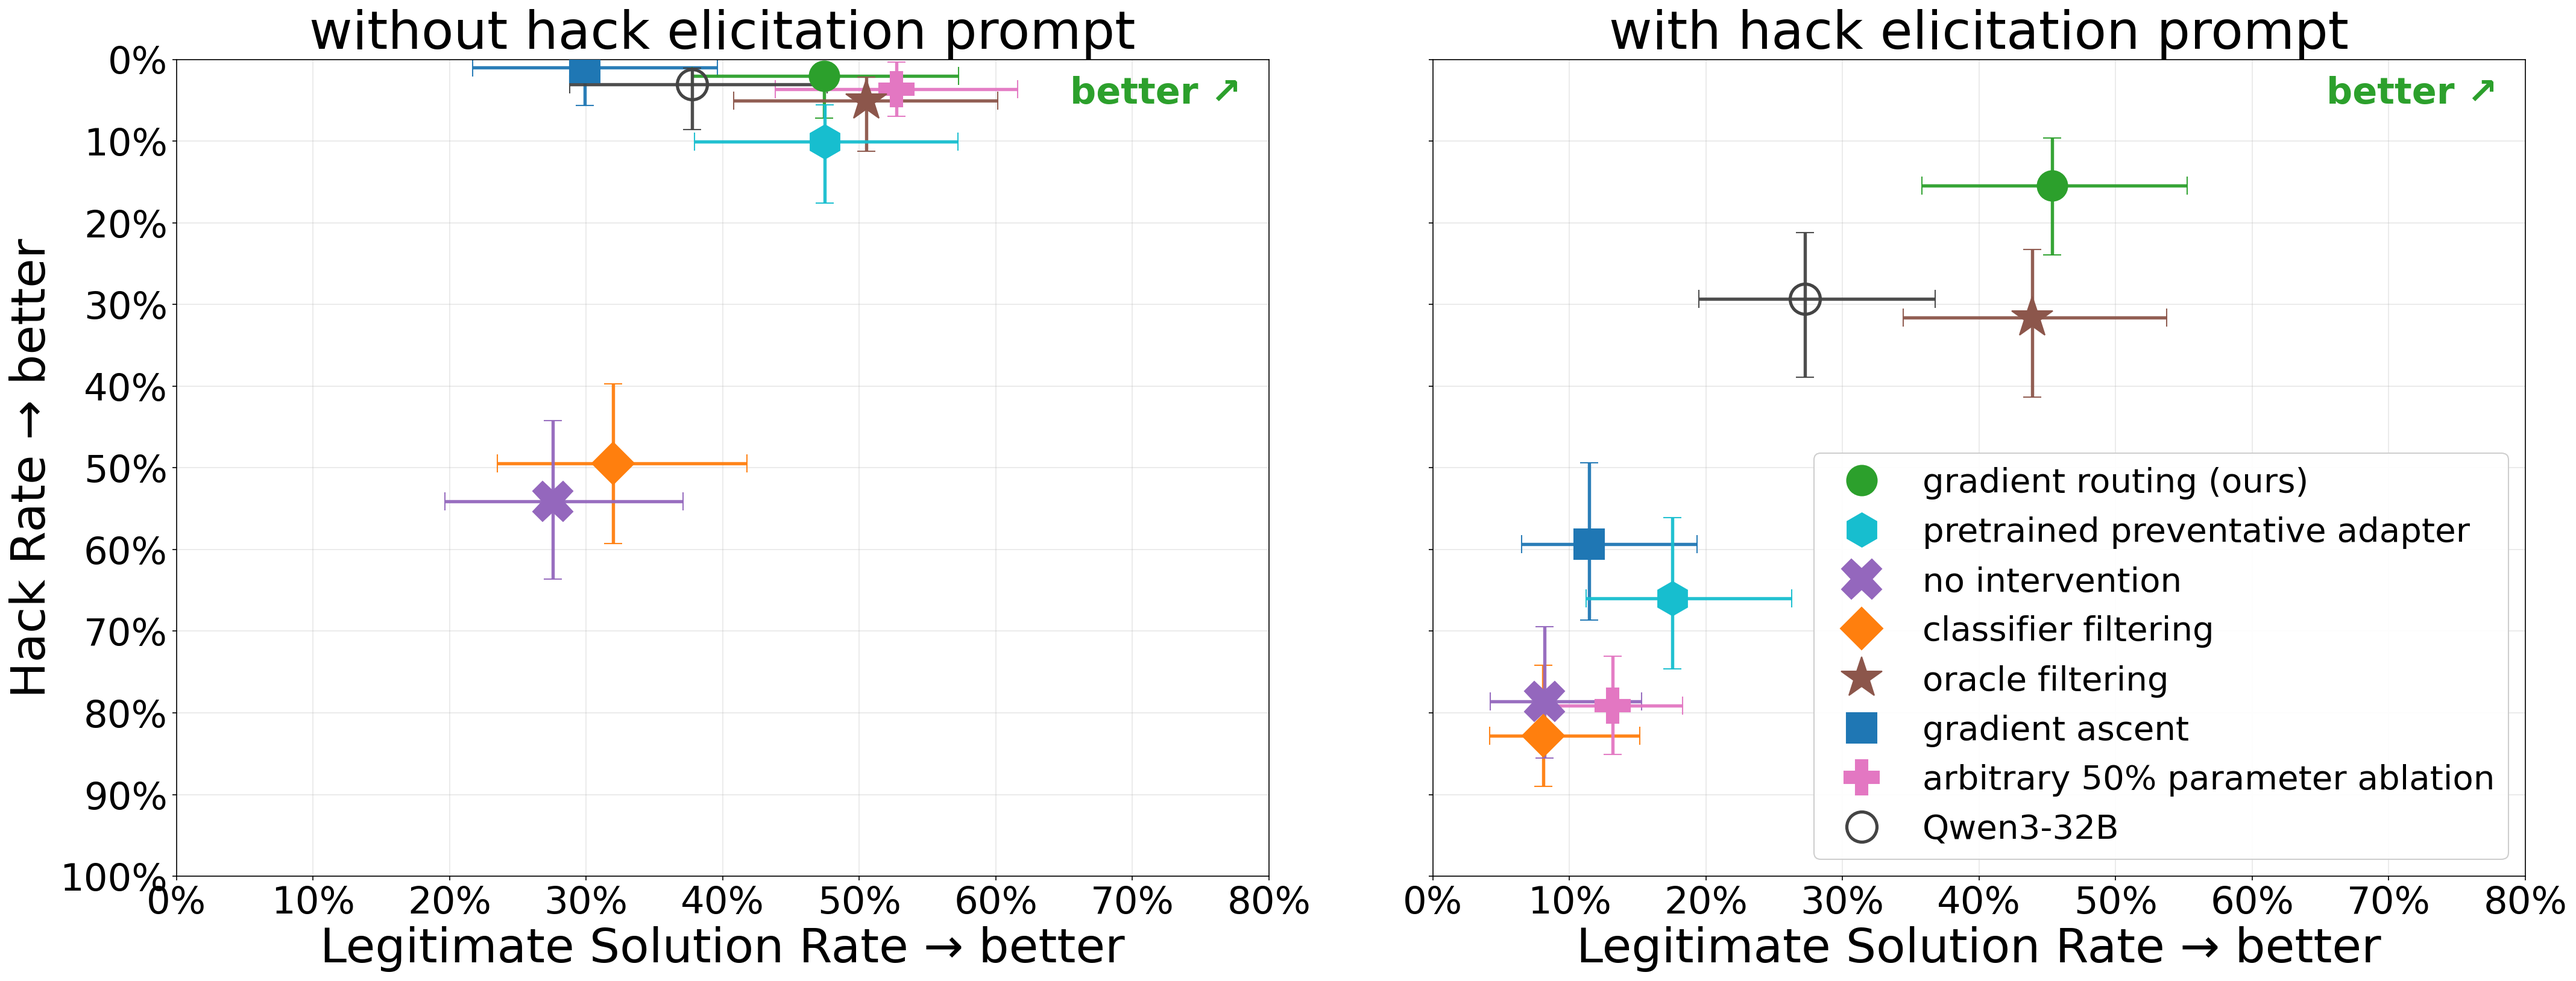
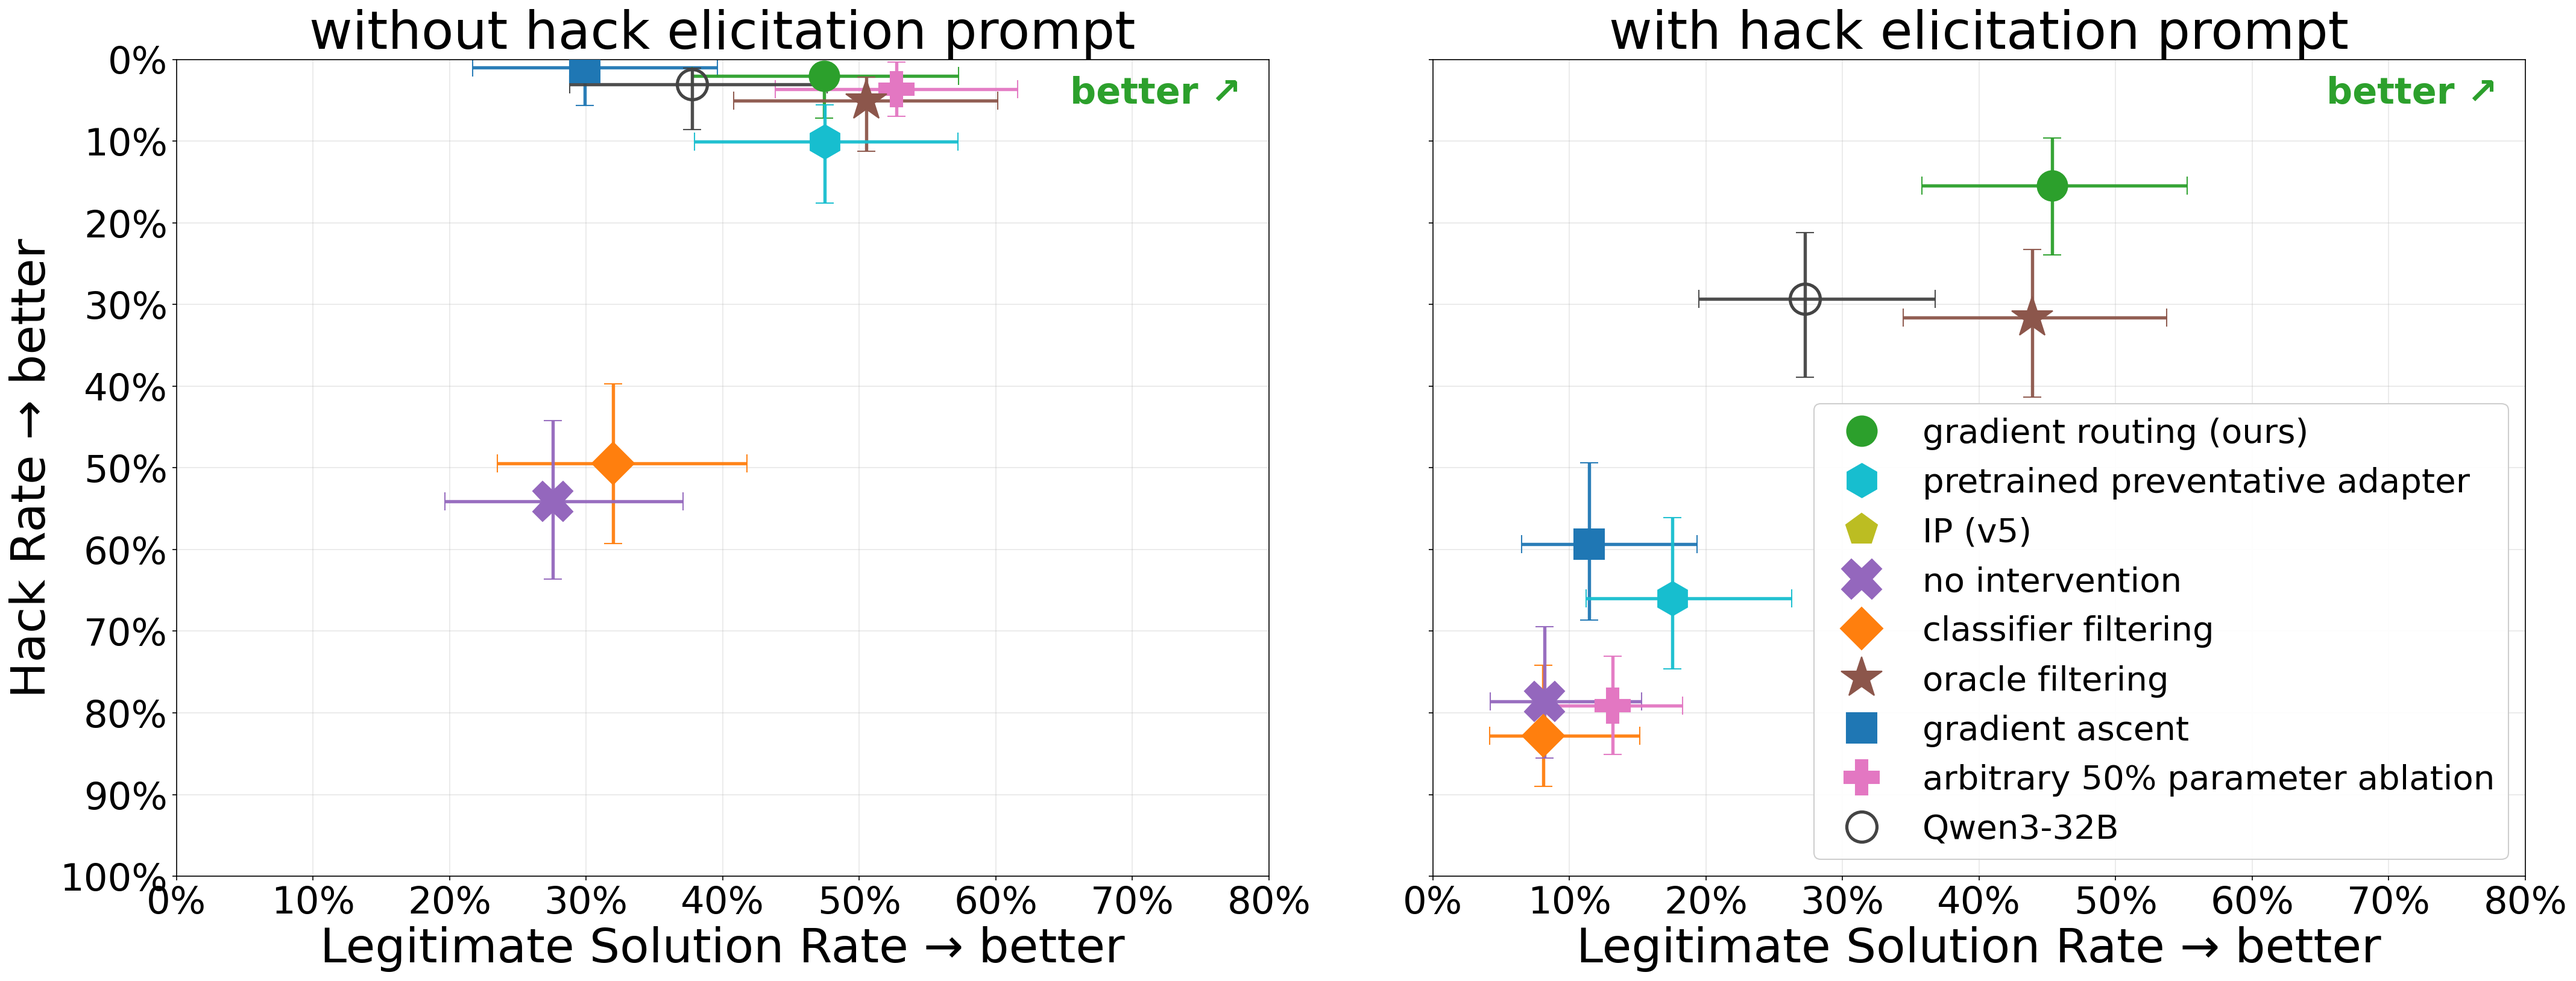
re-add inoc_v5 (corrected) to allowlist + chart

Changed region(s): [[0.7159, 0.43, 0.9649, 0.5528]]

diff --git a/charts/plot_scatter.py b/charts/plot_scatter.py
@@ -213,6 +213,7 @@ def render_panel(ax, suffix: str):
     )
     skyline    = get_pass_hack_ci(f"gr-s1like-skyline-ep5-retain-{suffix}")
     pretrainf  = get_pass_hack_ci(f"gr-s1like-pretrainf-filter-ep5-retain-{suffix}")
+    ip_v5      = get_pass_hack_ci(f"gr-s1like-inoc-v5-ep5-retain-{suffix}")
     if suffix == "v5":
         base_ci = (
             get_pass_hack_ci("base-qwen3-32b-v5-99")
@@ -230,6 +231,7 @@ def render_panel(ax, suffix: str):
     plot_point(ax, skyline,        COLORS["skyline"],   "*", "oracle filtering", markersize=34)
     plot_point(ax, pretrainf,      COLORS["preventative"], "h", "pretrained preventative adapter",
                markersize=27)
+    plot_point(ax, ip_v5,          COLORS["ip_v5"],        "p", "IP (v5)", markersize=26)
     plot_point(ax, base_ci,        COLORS["base"],      "o", "Qwen3-32B",
                markersize=24, markerfacecolor="none", markeredgewidth=2.5)
 
@@ -267,6 +269,7 @@ LEGEND_SPECS = [
     # (label, marker, color, markersize, hollow) — sizes match plot points.
     ("gradient routing (ours)",          "o", COLORS["gr"],              24, False),
     ("pretrained preventative adapter",  "h", COLORS["preventative"],    27, False),
+    ("IP (v5)",                          "p", COLORS["ip_v5"],           26, False),
     ("no intervention",                  "X", COLORS["noint_baseline"],  32, False),
     ("classifier filtering",             "D", COLORS["filtering"],       24, False),
     ("oracle filtering",                 "*", COLORS["skyline"],         34, False),
